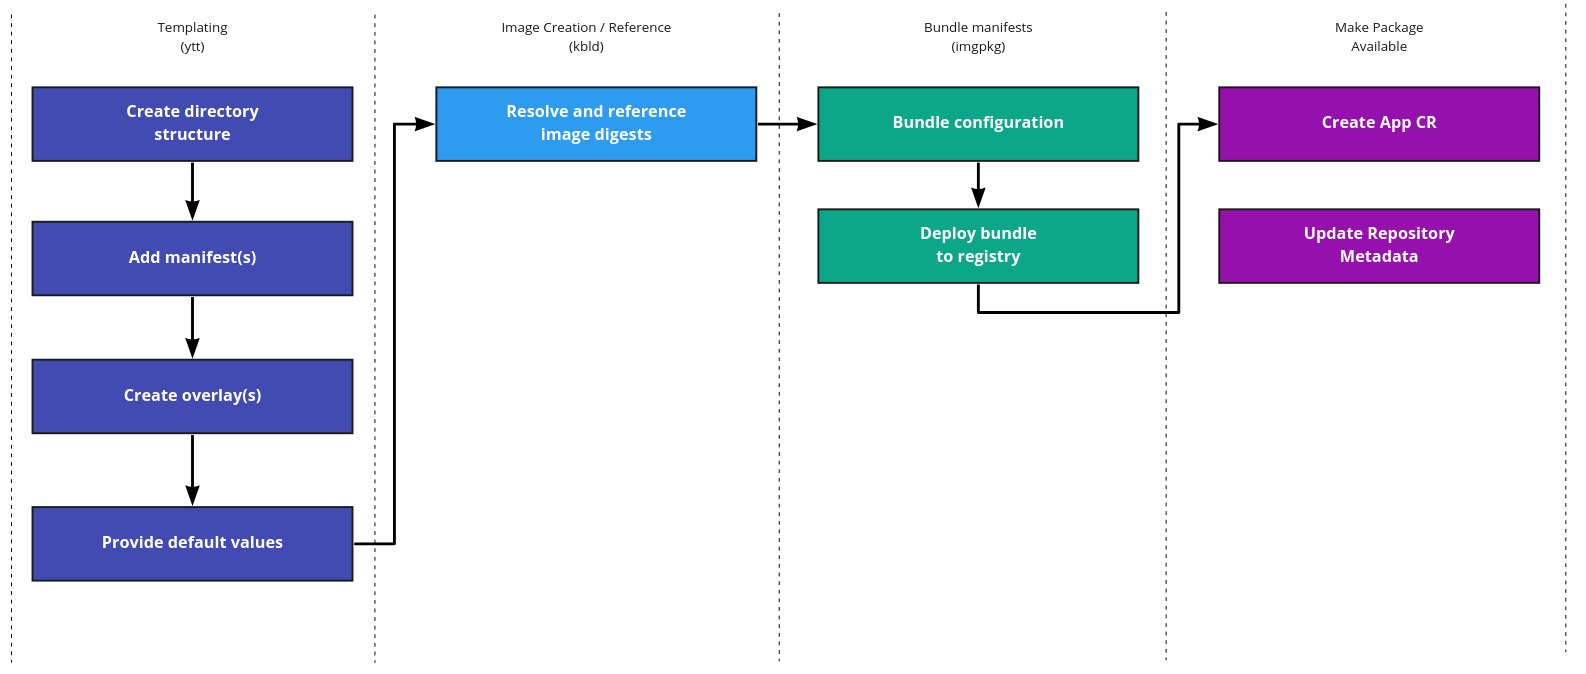
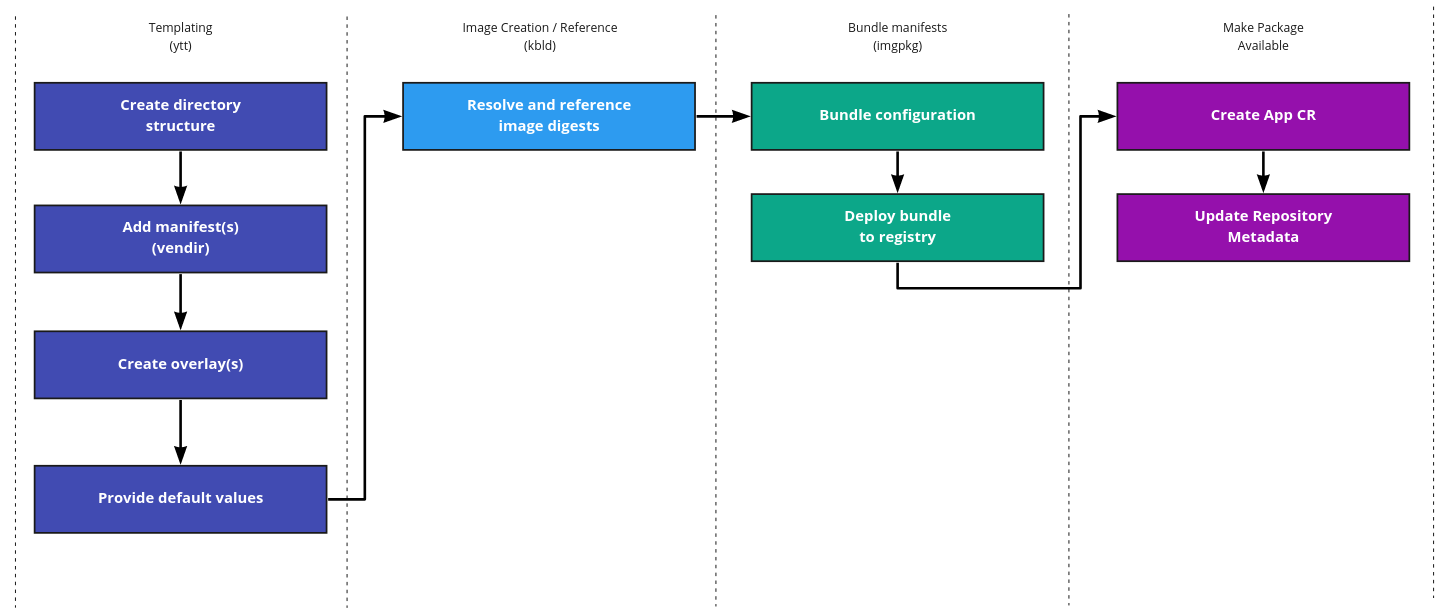
3 address comments

diff --git a/docs/designs/tanzu-addon-packaging.md b/docs/designs/tanzu-addon-packaging.md
@@ -82,7 +82,8 @@ The above script creates the following directory structure.
 ├── bundle
 ├── ├── .imgpkg
 ├── ├── config
-├── ├── overlay
+├── ├── ├── overlay
+├── ├── ├── upstream
 └── addon.yaml
 ```
 
@@ -91,9 +92,9 @@ The files and directories are used for the following.
 * **README**: Contains the extension's documentation.
 * **bundle**: Contains the extension's imgpkg bundle.
 * **bundle/.imgpkg**: Contains metadata for the bundle.
-* **bundle/config**: Contains the extension's deployment manifests. Typically
+* **bundle/config/upstream**: Contains the extension's deployment manifests. Typically
 sourced by upstream.
-* **bundle/overlay**: Contains the extension's overlay applied atop the
+* **bundle/config/overlay**: Contains the extension's overlay applied atop the
 upstream manifest.
 * **addon.yaml**: Contains the kapp-controller App CRD.
 
@@ -107,8 +108,52 @@ By storing the configuration of the upstream manifest, you can easily update the
 manifest and have customizations applied via
 [overlays](https://carvel.dev/ytt/#example:example-overlay).
 
-The upstream manifest should be added to the `bundle/config` directory. This is
-shown below as `upstream.yaml`.
+To ensure integrity of the sourced upstream manifests,
+[vendir](https://carvel.dev/vendir/docs/latest/vendir-spec) is used. It will
+download and create a lock file that ensures the manifest matches a specific
+commit.
+
+In the `bundle` directory, create a `vendor.yml` file. The following
+demonstrates the configuration for gatekeeper.
+
+```yaml
+apiVersion: vendir.k14s.io/v1alpha1
+kind: Config
+directories:
+- path: config
+  contents:
+  - path: upstream
+    git:
+      url: https://github.com/open-policy-agent/gatekeeper
+      ref: origin/master
+    newRootPath: deploy
+```
+
+This configuration means vendir will manager the `config/upstream` directory. To
+download the assets and produce a lock file, run the following.
+
+```sh
+vendir sync
+```
+
+A lock file will be created at `bundle/vendir.lock.yml`. It will contain the
+  following lock metadata.
+
+```yaml
+apiVersion: vendir.k14s.io/v1alpha1
+directories:
+- contents:
+  - git:
+      commitTitle: Adding pod disruption budget (#1105)...
+      sha: 6d99979b5eaf3e263c860694a4d64d4e1c302cf2
+      tags:
+      - v3.4.0-beta.0-17-g6d99979b
+    path: upstream
+  path: config
+kind: LockConfig
+```
+
+With the above in place, the directories and files will appear as follows.
 
 ```txt
 ./extensions/foo
@@ -116,8 +161,12 @@ shown below as `upstream.yaml`.
 ├── bundle
 ├── ├── .imgpkg
 ├── ├── config
-├── ├── ├── upstream.yaml
+├── ├── ├── overlay
+├── ├── ├── upstream
+├── ├── ├── ├── gatekeeper.yaml
 ├── ├── overlay
+├── ├── vendir.yml
+├── ├── vendir.lock.yml
 └── addon.yaml
 ```
 
@@ -127,7 +176,7 @@ For each object (e.g. `Deployment`) you need to modify from upstream, an overlay
 file should be created. Overlays are used to ensure we import
 unmodified-upstream manifests and apply specific configuration on top.
 
-Consider the following `upstream.yaml` added in the previous step.
+Consider the following `gatekeeper.yaml` added in the previous step.
 
 ```yaml
 ---
@@ -136,22 +185,22 @@ Consider the following `upstream.yaml` added in the previous step.
 apiVersion: apps/v1
 kind: Deployment
 metadata:
-  name: nginx-deployment
+  name: gatekeeper-deployment
   labels:
-    app: nginx
+    app: gatekeeper
 spec:
   replicas: 1
   selector:
     matchLabels:
-      app: nginx
+      app: gatekeeper
   template:
     metadata:
       labels:
-        app: nginx
+        app: gatekeeper
     spec:
       containers:
-      - name: nginx
-        image: nginx:1.14.2
+      - name: gatekeeper
+        image: gatekeeper:1.14.2
         ports:
         - containerPort: 80
 ```
@@ -159,26 +208,26 @@ spec:
 Assume you want to modify `metadata.labels` to a static value and
 `spec.replicas` to a user-configurable value.
 
-Create a file named `overlay-deployment-nginx.yaml` in the `bundle/overlay`
+Create a file named `overlay-deployment-gatekeeper.yaml` in the `bundle/overlay`
 directory.
 
 ```yaml
 ---
-#! overlay-deployment-nginx.yaml
+#! overlay-deployment-gatekeeper.yaml
 
 #@ load("@ytt:overlay", "overlay")
 #@ load("@ytt:data", "data")
 
-#@overlay/match by=overlay.subset({"kind":"Deployment", "metadata":{"name":"nginx-deployment"}})
+#@overlay/match by=overlay.subset({"kind":"Deployment", "metadata":{"name":"gatekeeper-deployment"}})
 ---
 metadata:
   labels:
     #@overlay/match missing_ok=True
-    class: nginx
+    class: gatekeeper
     #@overlay/match missing_ok=True
     owned-by: tanzu
 
-#@overlay/match by=overlay.subset({"kind":"Deployment", "metadata": {"name": "nginx-deployment"}})
+#@overlay/match by=overlay.subset({"kind":"Deployment", "metadata": {"name": "gatekeeper-deployment"}})
 ---
 spec:
   #@overlay/match missing_ok=True
@@ -221,8 +270,7 @@ To run the above, you can use `ytt` as follows.
 
 ```sh
 ytt \
-  -f extensions/foo/bundle/config \
-  -f extensions/foo/bundle/overlay
+  -f extensions/foo/bundle/config
 ```
 
 In the above example, the following manifest is produced.
@@ -300,13 +348,15 @@ clusters. At this point, the following directories and files should be in place.
 extensions/foo
 ├── addon.yaml
 ├── bundle
-│   ├── config
-│   │   ├── upstream.yaml
-│   │   └── values.yaml
+├── ├── config
+├── ├── ├── overlay
+├── ├── ├── ├── overlay-deployment-gatekeeper.yaml
+├── ├── ├── upstream
+├── ├── ├── ├── gatekeeper.yaml
 │   ├── .imgpkg
 │   │   └── images.yml
-│   └── overlay
-│       └── overlay-deployment-nginx.yaml
+├── ├── vendir.yml
+├── ├── vendir.lock.yml
 └── README.md
 ```
 

diff --git a/README.md b/README.md
@@ -13,20 +13,18 @@ TCE is modular and enables you to bring your own.
 
 ## Getting Started
 
-These instructions will get you a copy of the project up and running on your local machine for development and testing purposes. See deployment for notes on how to deploy the project on a live system.
-
-### Prerequisites
-
-To use TCE, infrastructure where Kubernetes clusters can be bootstrapped is
-required. TCE supports vSphere 6.7.x, AWS, and Azure.
-
-### Installing
-
 Read our [Getting Started guide](docs/getting-started.md).
 
-## Extensions
+## Designs
 
-Extensions provide the additional functionality necessary to build an application platform atop Kubernetes. We follow a modular approach in which operators building a platform can deploy the extensions they need to fulfill their requirements.
+The TCE project operates off design proposals.
+
+* [Tanzu Add-on Packaging](./docs/designs/tanzu-addon-packaging.md)
+  * How add-ons are packaged and distributed in TCE.
+
+## Add-Ons
+
+Add-ons provide the additional functionality necessary to build an application platform atop Kubernetes. We follow a modular approach in which operators building a platform can deploy the extensions they need to fulfill their requirements.
 
 | Name | Description | Documentation |
 |------|-------------|---------------|
